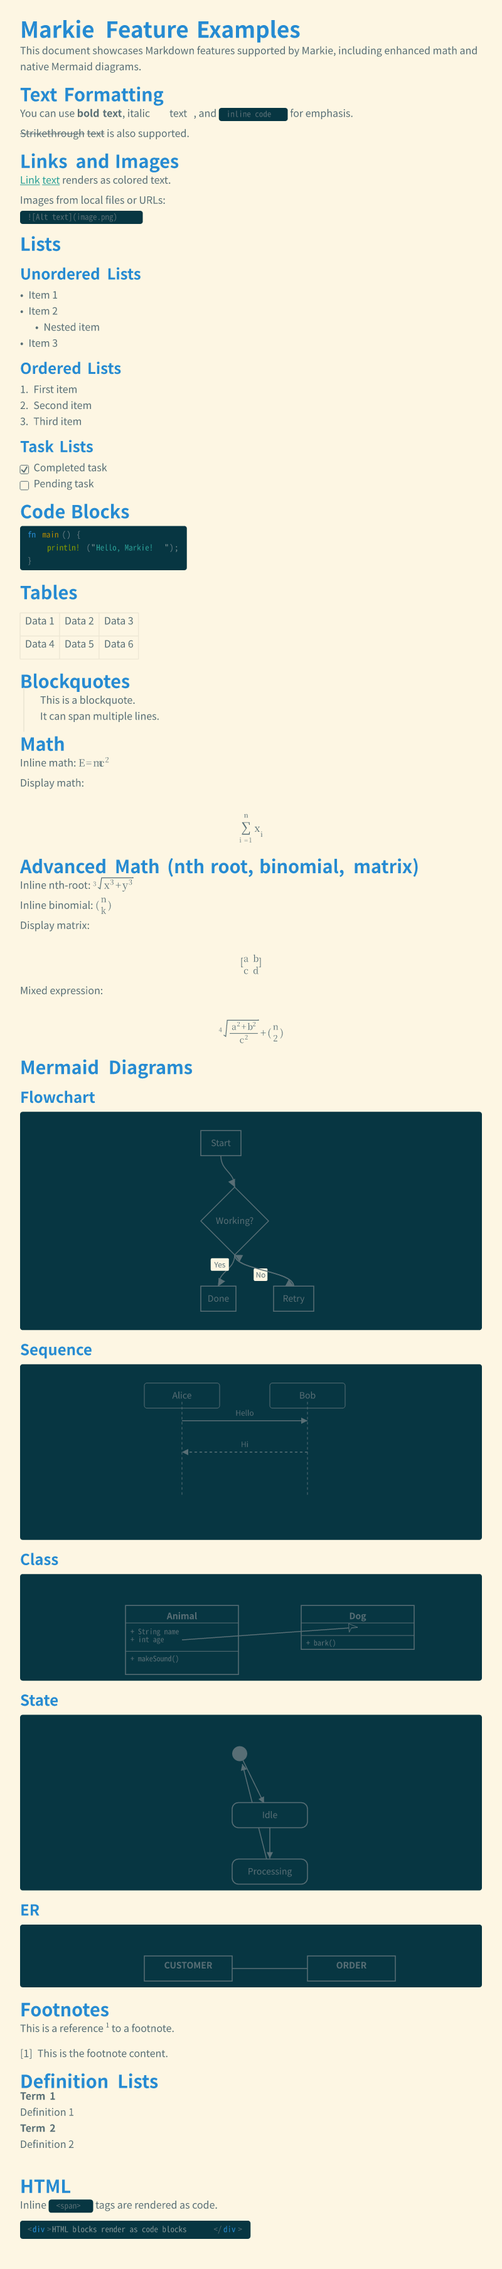
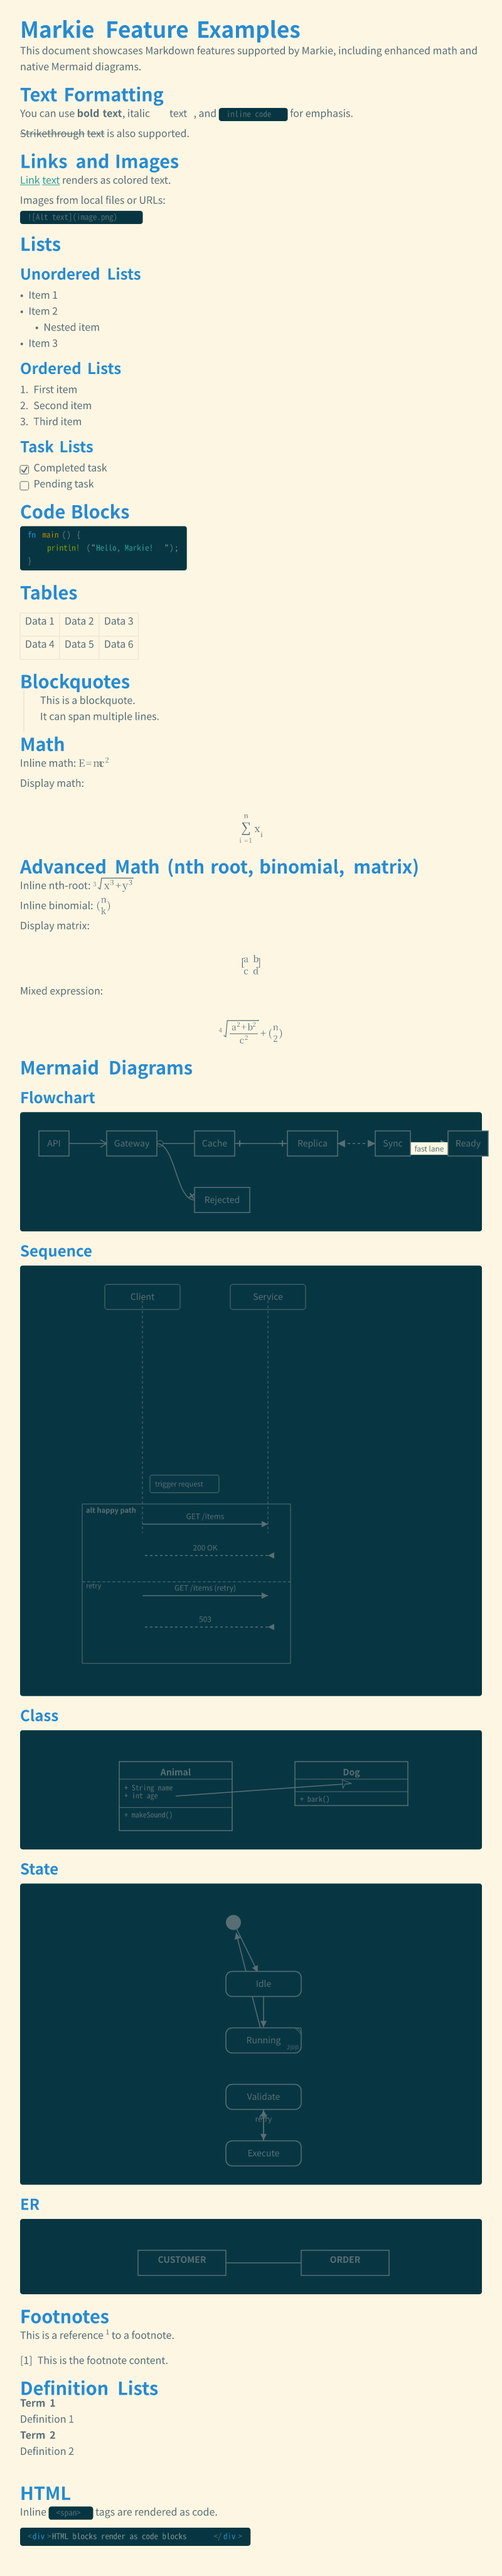
docs: refresh README and examples for new mermaid capabilities

diff --git a/README.md b/README.md
@@ -9,7 +9,7 @@ A pure Rust Markdown to SVG/PNG/PDF renderer that converts Markdown documents in
 - **Pure Rust**: Built entirely with Rust for performance and reliability
 - **Multiple Output Formats**: Export to SVG, PNG, or PDF
 - **High-Resolution PNG Output**: Use `--png-scale` for sharper raster output
-- **Native Mermaid Rendering**: Flowchart, sequence, class, state, and ER diagrams
+- **Native Mermaid Rendering**: Flowchart, sequence, class, state, and ER diagrams (including advanced edge/control syntax)
 - **Enhanced Math Rendering**: LaTeX-style math including nth roots, binomials, and matrices
 - **Customizable Themes**: Supports Alacritty theme files (`.yaml`/`.toml`)
 - **Flexible Input**: Read from file or stdin
@@ -56,10 +56,10 @@ flowchart TD
 ````
 
 Supported diagram types:
-- **Flowchart**: `flowchart TD/LR` with nodes (rect, rounded, diamond, circle) and labeled edges
-- **Sequence**: `sequenceDiagram` with participants and messages
+- **Flowchart**: `flowchart TD/LR` with nodes (rect, rounded, diamond, circle), labels, and arrow variants (circle/cross/open, bidirectional, thick, dotted)
+- **Sequence**: `sequenceDiagram` with participants, messages, notes, and control blocks (`alt`, `opt`, `loop`, `par`, `critical` + `else`/`end`)
 - **Class**: `classDiagram` with classes, attributes, methods, and relationships
-- **State**: `stateDiagram` with states and transitions
+- **State**: `stateDiagram` with states, transitions, composite state children, and notes
 - **ER**: `erDiagram` with entities and relationships
 
 ### Enhanced Math Support

diff --git a/examples.md b/examples.md
@@ -88,21 +88,29 @@ $$
 ### Flowchart
 
 ```mermaid
-flowchart TD
-    A[Start] --> B{Working?}
-    B -->|Yes| C[Done]
-    B -->|No| D[Retry]
-    D --> B
+flowchart LR
+    A[API] --o> B[Gateway]
+    B o-- C[Cache]
+    B --x D[Rejected]
+    C x--x E[Replica]
+    E <.-> F[Sync]
+    F ==>|fast lane| G[Ready]
 ```
 
 ### Sequence
 
 ```mermaid
 sequenceDiagram
-    participant Alice
-    participant Bob
-    Alice->>Bob: Hello
-    Bob-->>Alice: Hi
+    participant Client
+    participant Service
+    Note right of Client: trigger request
+    alt happy path
+        Client->>Service: GET /items
+        Service-->>Client: 200 OK
+    else retry
+        Client->>Service: GET /items (retry)
+        Service-->>Client: 503
+    end
 ```
 
 ### Class
@@ -125,8 +133,15 @@ classDiagram
 ```mermaid
 stateDiagram
     [*] --> Idle
-    Idle --> Processing
-    Processing --> [*]
+    Idle --> Running
+    state Running {
+        state Validate
+        state Execute
+        Validate --> Execute: ok
+        Execute --> Validate: retry
+    }
+    Note right of Validate: guard checks
+    Running --> [*]
 ```
 
 ### ER
